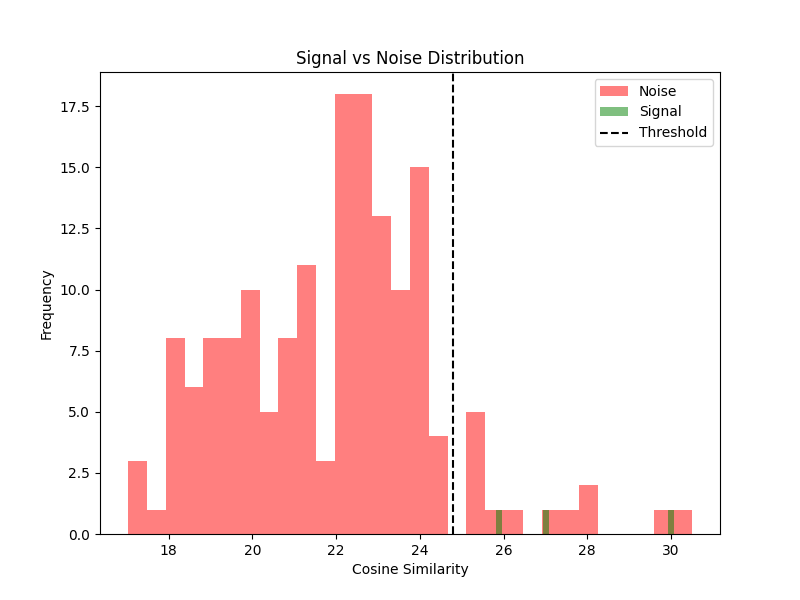
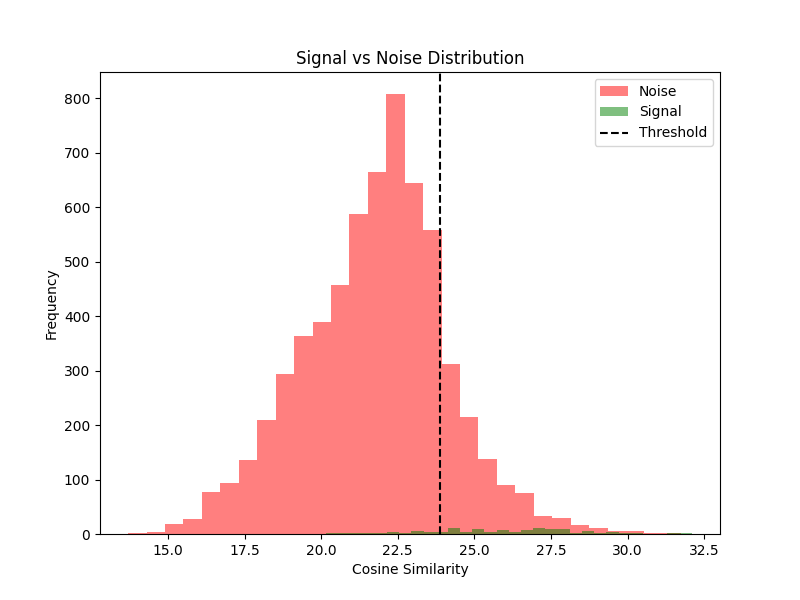
update the threshold results for GEOclip method.

diff --git a/pipelines/Set_18thresholdsGEO.py b/pipelines/Set_18thresholdsGEO.py
@@ -38,7 +38,7 @@ task_to_items = group_by_task(deduplicated_data)
 thresholds_result = {}
 for task, items in task_to_items.items():
 
-    items = items[:3]  # ← only use the first 3 samples of each category JUST for local test
+    # items = items[:3]  # ← only use the first 3 samples of each category JUST for local test
     
     # for this task, collect singal vs noise sims.
     signal_sims, noise_sims = [], []
